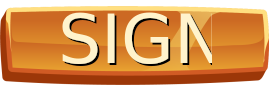
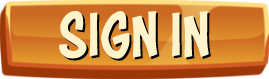
adjusting login and out pages

diff --git a/lib/Screens/entryScreen.dart b/lib/Screens/entryScreen.dart
@@ -7,8 +7,10 @@ import 'package:grabit/Classes/player.dart';
 import 'package:flutter_svg/svg.dart';
 import 'package:flutter/services.dart';
 import 'package:grabit/Screens/infoScreen.dart';
+import 'package:grabit/Screens/registrationScreen.dart';
 import 'package:grabit/services/gameNumberManager.dart';
 import 'package:grabit/services/playerManager.dart';
+import 'package:tuple/tuple.dart';
 
 import '../Classes/card.dart';
 import '../Classes/gameManager.dart';
@@ -38,40 +40,100 @@ class entryScreenState extends State<entryScreen>{
     getCurrentGameNum();
     var size = MediaQuery.of(context).size;
 
-    return Stack(fit: StackFit.passthrough, children: [Container(child: Image.asset('assets/Background.png',
-      width: size.width, height: size.height,),),Positioned(top: size.height*0.03,
-        left: size.width * 0.3, child:Container(child: Image.asset('assets/nickname.png',width: 0.2 * size.width,
-            height: 0.35 * size.height),width:size.width * 0.35, height: size.height * 0.35 )),
-      Positioned(top: 0.13 * size.height, right:0.585 * size.width,child:
-      Container(width:0.15 * size.width,height: 0.15 * size.height,
-          decoration: BoxDecoration(
-            color:Colors.blue, shape: BoxShape.circle,))),
-      Positioned(top: size.height * 0.028, left: size.width * 0.25,child://18
-      Container(
-          width:size.width * 0.45,
-          height: size.height * 0.35,
-          child: Scaffold(
-            backgroundColor: Colors.transparent,
-            resizeToAvoidBottomInset: false,
-            body : Padding(
-              padding: const EdgeInsets.symmetric(horizontal: 108, vertical: 50),//108,50
-              child: TextField(
-
-                controller: _nicknameController,
-                decoration: new InputDecoration.collapsed(
-                  hintText: 'Enter nickname',
-                ),
-              ),
-            ),
-          ))
-      ),
-      Positioned(bottom: size.height * 0.04, left: size.width * 0.37,child://18
-      Container(
-          width:size.width * 0.25,
-          height: size.height * 0.25,
-          child:GestureDetector(
-              child:Image.asset('assets/playButton.png',width: 0.2 * size.width,
-                  height: 0.25 * size.height),
+    return Stack(fit: StackFit.passthrough, children:
+      [
+        Container(child:
+          Image.asset('assets/Background.png',
+            width: size.width,
+            height: size.height,),),
+    Positioned(
+          top: size.height * 0.05,
+          left: size.width * 0.31,
+          child: Container(
+            width: size.width * 0.39,
+            height: size.height * 0.32,
+            child: Image.asset('assets/Lobby/writingArea.png',
+              width: 0.2 * size.width,
+              height: 0.35 * size.height),)),
+        Positioned(
+          top: 0.11 * size.height,
+          left: 0.305 * size.width,
+          child: isLoginMode == false ?
+            Image.asset('assets/Lobby/Avatar_photo.png',
+              width: 0.15 * size.width,
+              height: 0.15 * size.height) : SizedBox()),
+        Positioned(
+          top: 0.18 * size.height,
+          left: 0.3 * size.width,
+          child: GestureDetector(
+              child: isLoginMode == true ? Image.asset('assets/Lobby/+ BTN.png',
+                width: 0.125 * size.width,
+                height: 0.125 * size.height) : SizedBox())),
+        Positioned(
+          top: size.height * 0.21,
+          left: size.width * 0.425,
+          child: GestureDetector(
+              child: Image.asset('assets/Lobby/SignIn_BTN.png',
+              width: 0.15 * size.width,
+              height: 0.15 * size.height),
+            onTap: () async {
+                print("bfbfbfbf");
+              var res = await Navigator.of(context).push(
+              MaterialPageRoute<Tuple3>(
+                builder: (context) {
+                  return RegistrationScreen();
+                }));
+              setState(() {
+                print("kalamari");
+                isLoginMode = res?.item1; });
+            },),),
+        Positioned(
+          left: size.width * 0.07,
+          top: size.height * 0.65,
+          child: GestureDetector(
+            child: Image.asset('assets/Lobby/Info_BTN.png',
+              height: 0.14 * size.height,
+              width: 0.14 * size.width),
+            onTap: () => setState(() { instructionsMode = true; }),)),
+        Positioned(
+          left: size.width * 0.13,
+          bottom: size.height * 0.09,
+          child: GestureDetector(
+            child: Image.asset('assets/Lobby/FriendlyBattle_BTN.png',
+              width: 0.2 * size.width,
+              height: 0.12 * size.height),
+            onTap: () {
+              Navigator.of(context).push(MaterialPageRoute<void> (builder: (context) {
+              return FriendlyGame();
+            }));})),
+        /*Positioned(
+          top: size.height * 0.04,
+          left: size.width * 0.28,
+          child: Container(
+            width:size.width * 0.45,
+            height: size.height * 0.35,
+            child: Scaffold(
+              backgroundColor: Colors.transparent,
+              resizeToAvoidBottomInset: false,
+              body : Padding(
+                padding: const EdgeInsets.symmetric(
+                horizontal: 108,
+                vertical: 50),
+                child: TextField(
+                  controller: _nicknameController,
+                  decoration: new InputDecoration.collapsed(hintText: 'Enter nickname',),
+                  cursorColor: Colors.grey
+              ),),))),*/
+        Positioned(
+          bottom: size.height * 0.04,
+          left: size.width * 0.39,
+          child: Container(
+            width: size.width * 0.25,
+            height: size.height * 0.25,
+            child: GestureDetector(
+              child: Image.asset('assets/playButton.png',
+                width: 0.2 * size.width,
+                height: 0.25 * size.height),
               onTap: () async{
                 FirebaseFirestore _firestore = FirebaseFirestore.instance;
                 _connectedPlayersNum = await getConnectedNum(_gameNum);
@@ -83,6 +145,16 @@ class entryScreenState extends State<entryScreen>{
                   cardsArr = [for(int i = 1; i <= (numberOfRegularCards+((numberOfUniqueCards)*numberOfUniqueCardsRepeats)); i++) i];
                   cardsArr.shuffle();
                   dataUpload['cardsData'] = cardsArr;
+                  ///ADDED here - will be initialized only by player 1
+                  dataUpload['underTotemCards'] = [];
+                  dataUpload['totem'] = false;
+                  for(int i = 0; i < widget.numPlayers; i++ ){
+                    dataUpload['totem${i}Pressed'] = false;
+                  };
+                  dataUpload['turn'] = 0;
+                  dataUpload['matchingCards'] = [for(int i = 0; i < (numberOfRegularCards~/4); i++) 0];
+                  dataUpload['matchingColorCards'] = [0,0,0,0];
+                  dataUpload['cardsActiveUniqueArray'] = [for(int i = 0; i < (numberOfUniqueCards + 1); i++) 0];
                 }
                 else {
                   await _firestore.collection('game').doc('game${_gameNum}').get().then(
@@ -98,10 +170,14 @@ class entryScreenState extends State<entryScreen>{
                           );
                   print(_connectedPlayersNum);
                 }
-                int cards = ((numberOfRegularCards+((numberOfUniqueCards)*numberOfUniqueCardsRepeats)) /  widget.numPlayers).toInt();
-                Map<String, dynamic> uploadData = {};
-                var cardsHandler = [];
+                int totalCardsNum = cardsArr.length;//(numberOfRegularCards + ((numberOfUniqueCards)*numberOfUniqueCardsRepeats))
+                int cards = (totalCardsNum / widget.numPlayers).toInt();
+                int remainder = _playerIndex + 1 > (totalCardsNum) % widget.numPlayers ? 0 :
+                  (totalCardsNum) % widget.numPlayers - _playerIndex;
+                //var cardsHandler = [];
                 //cardsHandler.add([cardsArr.sublist(cards*i,(cards*(i+1))),[]]);
+                ///TO DO :  all shared variables hould be initialized only once at firebase
+                /*
                 dataUpload['underTotemCards'] = [];
                 dataUpload['totem'] = false;
                 dataUpload['totem0Pressed'] = false;
@@ -110,8 +186,16 @@ class entryScreenState extends State<entryScreen>{
                 dataUpload['turn'] = 0;
                 dataUpload['matchingCards'] = [for(int i = 0; i < (numberOfRegularCards~/4); i++) 0]; /// zero list of zeros ///
                 dataUpload['matchingColorCards'] = [0,0,0,0];
-                dataUpload['cardsActiveUniqueArray'] = [for(int i = 0; i < (numberOfUniqueCards + 1); i++) 0];
-                dataUpload['player_${_playerIndex.toString()}_deck'] = cardsArr.sublist(cards*(_playerIndex), (cards * (_playerIndex + 1)));
+                dataUpload['cardsActiveUniqueArray'] = [for(int i = 0; i < (numberOfUniqueCards + 1); i++) 0];*/
+                if (remainder > 0){
+                  dataUpload['player_${_playerIndex.toString()}_deck'] =
+                      cardsArr.sublist(cards*(_playerIndex), (cards * (_playerIndex + 1))) +
+                      cardsArr.sublist(totalCardsNum - remainder, totalCardsNum - remainder + 1);
+                }
+                else{
+                  dataUpload['player_${_playerIndex.toString()}_deck'] =
+                    cardsArr.sublist(cards*(_playerIndex), (cards * (_playerIndex + 1)));
+                }
                 dataUpload['player_${(_playerIndex).toString()}_openCards'] = [];
                 // dataUpload['player_${_playerIndex.toString()}_nickname'] = _nicknameController.text;
                 await _firestore.collection('game').doc('game${_gameNum}').set(dataUpload, SetOptions(merge : true));
@@ -123,7 +207,13 @@ class entryScreenState extends State<entryScreen>{
                 return GameManager(playerIndex: _playerIndex, playersNum: widget.numPlayers, gameNum: _gameNum,);
                       }
                       ));
-              })))]);
+              }))),
+        instructionsMode == true ? InfoScreen(func: setInstructionMode) : SizedBox()]);
+  }
+  setInstructionMode(){
+    setState (() {
+      this.instructionsMode = false;
+    });
   }
 
   void getCurrentGameNum() async {
@@ -131,6 +221,5 @@ class entryScreenState extends State<entryScreen>{
   }
 
 }
-
 
 

diff --git a/lib/Screens/registrationScreen.dart b/lib/Screens/registrationScreen.dart
@@ -161,12 +161,24 @@ class RegistrationScreenState extends State<RegistrationScreen>{
                 setState(()  {
                   /// user is not logged in
                     if (validateCredentials(true) == false) {
+                      print("Kalamari1");
                       return;
                     }
                     else {
+                      print("Kalamari2");
                       login(_usernameController.text, _passwordController.text);
-                      if (Login.instance()
-                          .user != null) {
+                      FirebaseAuth.instance
+                          .authStateChanges()
+                          .listen((User? user) {
+                        if (user != null) {
+                          print("HERE line 174");
+                          Navigator.pop(context, Tuple3(true,_usernameController.text,_nicknameController.text));
+                        } else {
+                          print('User is signed in!');
+                        }
+                      });/*
+                      if (Login.instance().user != null) {
+                        print("Kalamari3");
                         Navigator.pop(context, Tuple3(true,_usernameController.text,_nicknameController.text));
                         /*
                         Navigator.of(context).push(
@@ -179,7 +191,7 @@ class RegistrationScreenState extends State<RegistrationScreen>{
                         );
 
                         */
-                      }
+                      }*/
                     }
 
                 }
